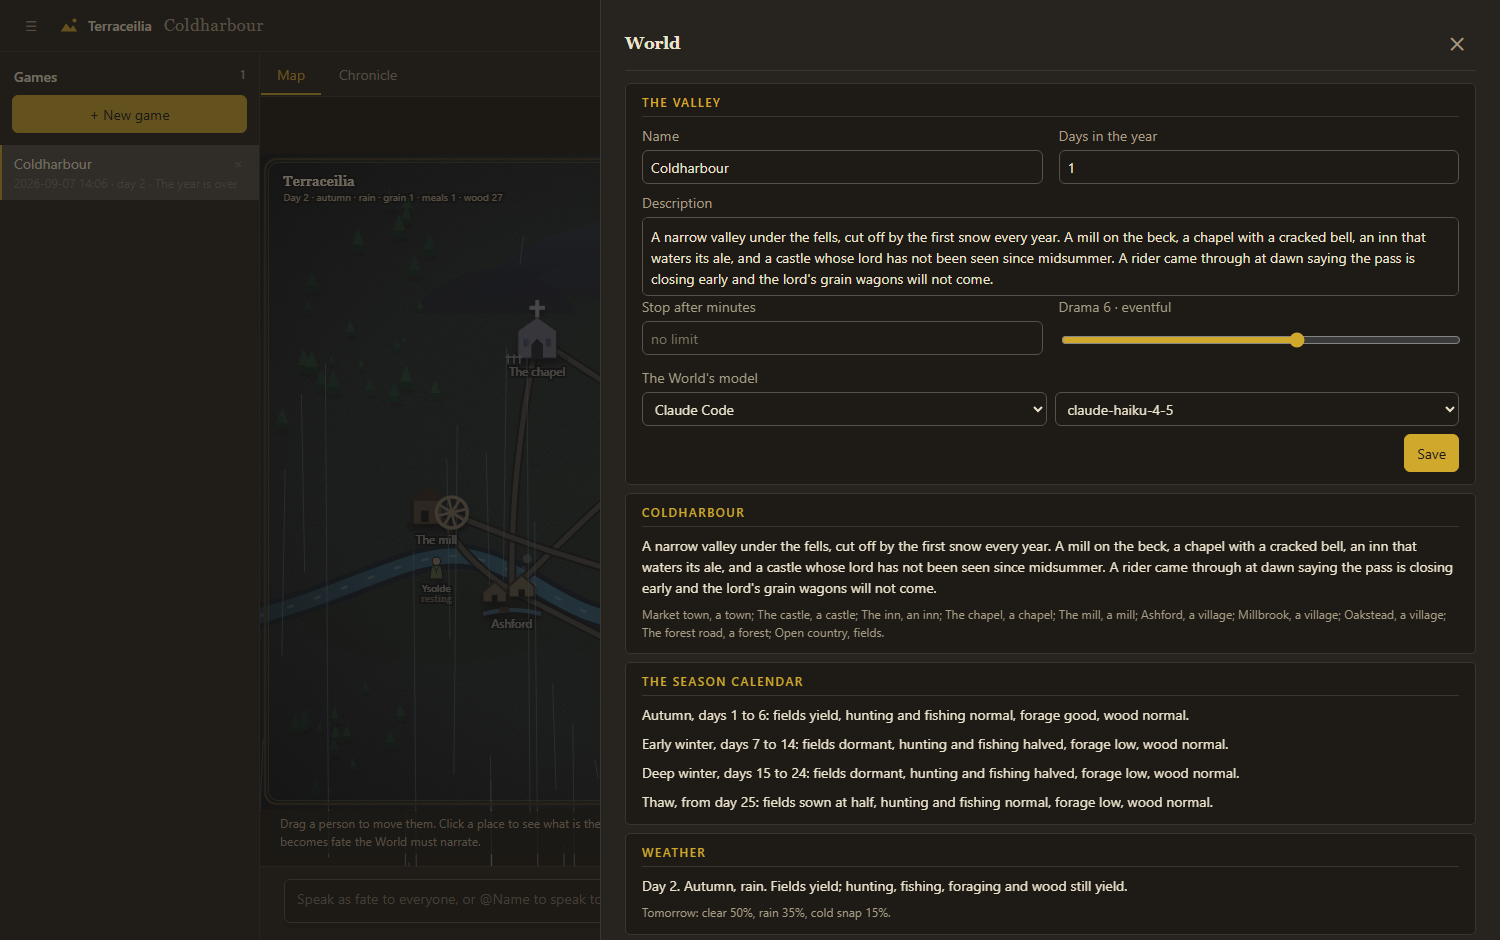
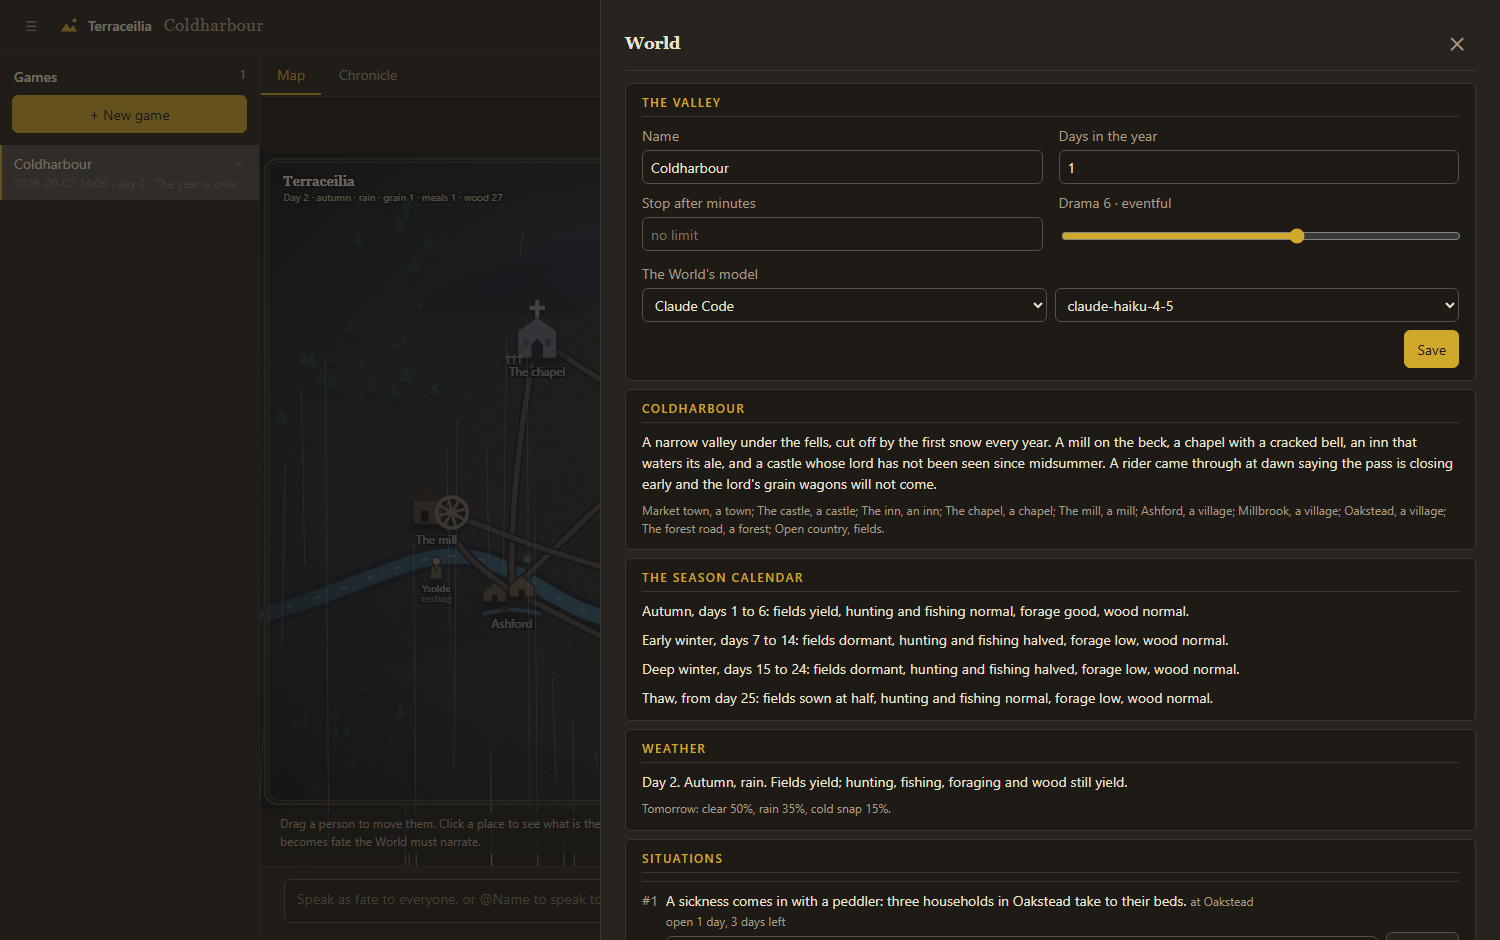
Hide the valley description form and the map controls once a game has started; the region card is the only copy
Once the world is made, the Description field and the map block leave the World form. Save sends the description only
before the start, and the server ignores a description edit once the world exists, so the region card is the one copy.
Name, days, minutes, drama and the World's model stay editable mid-game.

Claude-Session: https://claude.ai/code/session_011m975X5bZNZjxXmbnbh6Db

Changed region(s): [[0.4293, 0.3085, 0.9813, 0.8638], [0.4293, 0.8947, 0.92, 1.0], [0.4293, 0.216, 0.9813, 0.3394]]

diff --git a/frontend/app.js b/frontend/app.js
@@ -384,7 +384,7 @@ function renderWorld(s){if(!worldReady){$('g_drama').oninput=()=>{$('g_dramaNote
  modelPick('g',s.world_model,$('g_wp'),$('g_wm'),$('g_wc'));$('g_map_source').value=s.map_source||'builtin';
  modelPick('gm',s.map_model||s.world_model,$('g_mp'),$('g_mm'),$('g_mc'));mapInfo(s)}
 function mapInfo(s){const info=$('g_mapInfo');if(!s||!info)return;const started=!!(s.created||(s.seats&&s.seats.length>1)||s.status==='running'||s.status==='paused');
- $('g_mapBlock').style.display=started?'none':'';if(started)return;      // the map is fixed once a game has started; the controls go away
+ $('g_mapBlock').style.display=started?'none':'';$('g_descBlock').style.display=started?'none':'';if(started)return;      // the description and the map are fixed once a game has started; the region card is the only copy
  const gen=$('g_map_source').value==='generated';$('g_mapModelRow').style.display=gen?'':'none';
  const names=Object.keys(s.map||{});const st=s.map_style||{};let t;
  if(s.map_generating)t='Drawing a new map from the description. Watch the World\u2019s terminal.';
@@ -393,8 +393,8 @@ function mapInfo(s){const info=$('g_mapInfo');if(!s||!info)return;const started=
  else t='This game plays on the built-in valley of Terraceilia.';
  info.textContent=t;const b=$('g_regen');b.style.display=gen?'':'none';b.disabled=!!(s.map_generating);b.textContent=s.map_generating?'Drawing...':(s.map_generated?'Regenerate the map':'Draw the map now')}
 function gMapModelVal(){const v=pickVal($('g_mp'),$('g_mm'),$('g_mc')),w=pickVal($('g_wp'),$('g_wm'),$('g_wc'));return (v.provider===w.provider&&v.model===w.model)?null:v}
-async function saveWorld(){const started=!!(S&&(S.created||(S.seats&&S.seats.length>1)));const d={title:$('g_title').value,world_text:$('g_world').value,max_days:+$('g_days').value,max_minutes:+($('g_mins').value||0),drama:+$('g_drama').value,world_model:pickVal($('g_wp'),$('g_wm'),$('g_wc'))};
- if(!started){d.map_source=$('g_map_source').value;d.map_model=gMapModelVal()}
+async function saveWorld(){const started=!!(S&&(S.created||(S.seats&&S.seats.length>1)));const d={title:$('g_title').value,max_days:+$('g_days').value,max_minutes:+($('g_mins').value||0),drama:+$('g_drama').value,world_model:pickVal($('g_wp'),$('g_wm'),$('g_wc'))};
+ if(!started){d.world_text=$('g_world').value;d.map_source=$('g_map_source').value;d.map_model=gMapModelVal()}
  const r=await api('/edit/game',d);$('g_state').textContent='Saved '+new Date().toLocaleTimeString();render(r);mapInfo(S)}
 function renderRegion(s){const box=$('g_region');if(!box)return;const R=s.day_report||{};const th=(s.threads||[]).slice();
  const KIND={town:'a town',castle:'a castle',village:'a village',inn:'an inn',chapel:'a chapel',mill:'a mill',forest:'a forest',fields:'fields',water:'water',ruin:'a ruin',market:'a market',farm:'a farm',tower:'a tower',cave:'a cave',road:'a road'};

diff --git a/frontend/index.html b/frontend/index.html
@@ -72,7 +72,7 @@
 <div class="sheetwrap" id="sheet-world"><div class="panel"><h1>World <button class="icon sheetclose" aria-label="Close">&#10005;</button></h1>
  <div class="card2"><div class="ch">The valley</div>
   <div class="form2"><div class="fld"><label>Name</label><input id="g_title"></div><div class="fld"><label>Days in the year</label><input id="g_days" type="number" min="1"></div></div>
-  <div class="fld"><label>Description</label><textarea id="g_world" rows="4"></textarea></div>
+  <div class="fld" id="g_descBlock"><label>Description</label><textarea id="g_world" rows="4"></textarea></div>
   <div class="form2"><div class="fld"><label>Stop after minutes</label><input id="g_mins" type="number" min="0" placeholder="no limit"></div><div class="fld"><label>Drama <span id="g_dramaNote"></span></label><input id="g_drama" type="range" min="0" max="10" step="1"></div></div>
   <div class="fld"><label>The World's model</label><div class="row"><select id="g_wp"></select><select id="g_wm"></select><input id="g_wc" placeholder="custom model" style="display:none"></div></div>
   <div id="g_mapBlock"><div class="fld"><label>The map</label><div class="row"><select id="g_map_source"><option value="builtin">Built-in valley</option><option value="generated">Generate from the description</option></select></div>

diff --git a/tests/test_ui_pass.py b/tests/test_ui_pass.py
@@ -77,13 +77,17 @@ class Sheets(unittest.TestCase):
         self.assertIn("s.world_text", JS[JS.index("function renderRegion"):]); self.assertIn("d.kind", top)
         for tok in ("map_style", "st.water", "st.sky", "map_generated", "elevation", "feature"): self.assertNotIn(tok, JS[JS.index("function renderRegion"):JS.index("regionHtml=html")])
         self.assertIn("s.calendar_rows", JS); self.assertNotIn("seasonRow", JS)
-        self.assertIn("$('g_mapBlock').style.display=started?'none':''", JS)
+        self.assertIn("$('g_mapBlock').style.display=started?'none':''", JS); self.assertIn("$('g_descBlock').style.display=started?'none':''", JS); self.assertIn('id="g_descBlock"', HTML)
+        save = JS[JS.index("async function saveWorld"):JS.index("function renderRegion")]
+        self.assertIn("if(!started){d.world_text=$('g_world').value", save); self.assertNotIn("world_text:$('g_world')", save)
         import connect, game, server
         tmp = Path(tempfile.mkdtemp(prefix="terra-ui-")); engine.GAMES = tmp; game.GAMES = tmp; server.GAMES = tmp
         st, rv = connect.start, server.refresh_versions; connect.start = lambda: None; server.refresh_versions = lambda: None
         try:
             app = server.App(); g = app.run.g; g.seats = [{"name": "World", "provider": "Claude Code", "model": "", "color": "#d0a92c"}, {"name": "Bett", "provider": "Claude Code", "model": "", "color": "#7f9a5c"}]
             app.edit_game({"map_source": "generated"}); self.assertEqual(g.map_source, "builtin", "a started game keeps its map")
+            g.world.created = True; app.edit_game({"world_text": "changed after the start"}); self.assertNotEqual(g.world_text, "changed after the start", "the description is fixed once the world is made")
+            g.world.created = False; app.edit_game({"world_text": "changed before the start"}); self.assertEqual(g.world_text, "changed before the start")
             snap = app.snapshot()
             for k in ("calendar_rows", "tomorrow", "sentence"): self.assertIn(k, snap)
             for k in ("region", "calendar", "season_days"): self.assertNotIn(k, snap)

diff --git a/backend/server.py b/backend/server.py
@@ -166,10 +166,11 @@ class App:
                 g = self._latest(); self.runs.setdefault(g.id, Run(g)); self.gid = g.id
 
     def edit_game(self, d: dict) -> None:
-        """Game settings, editable at any time. Days and minutes apply to the running loop; the World's model on its next turn."""
+        """Game settings, editable at any time. Days and minutes apply to the running loop; the World's model on its next turn.
+        The description is fixed once the world is made; the region card is its only copy."""
         r = self.run; g = r.g
         with r.lock:
-            if "world_text" in d: g.world_text = str(d["world_text"])
+            if "world_text" in d and not g.world.created: g.world_text = str(d["world_text"])
             if "title" in d: g.title = str(d["title"])
             if "max_days" in d: g.max_days = max(1, int(d["max_days"] or 1))
             if "max_minutes" in d: g.max_minutes = max(0, int(d["max_minutes"] or 0))
